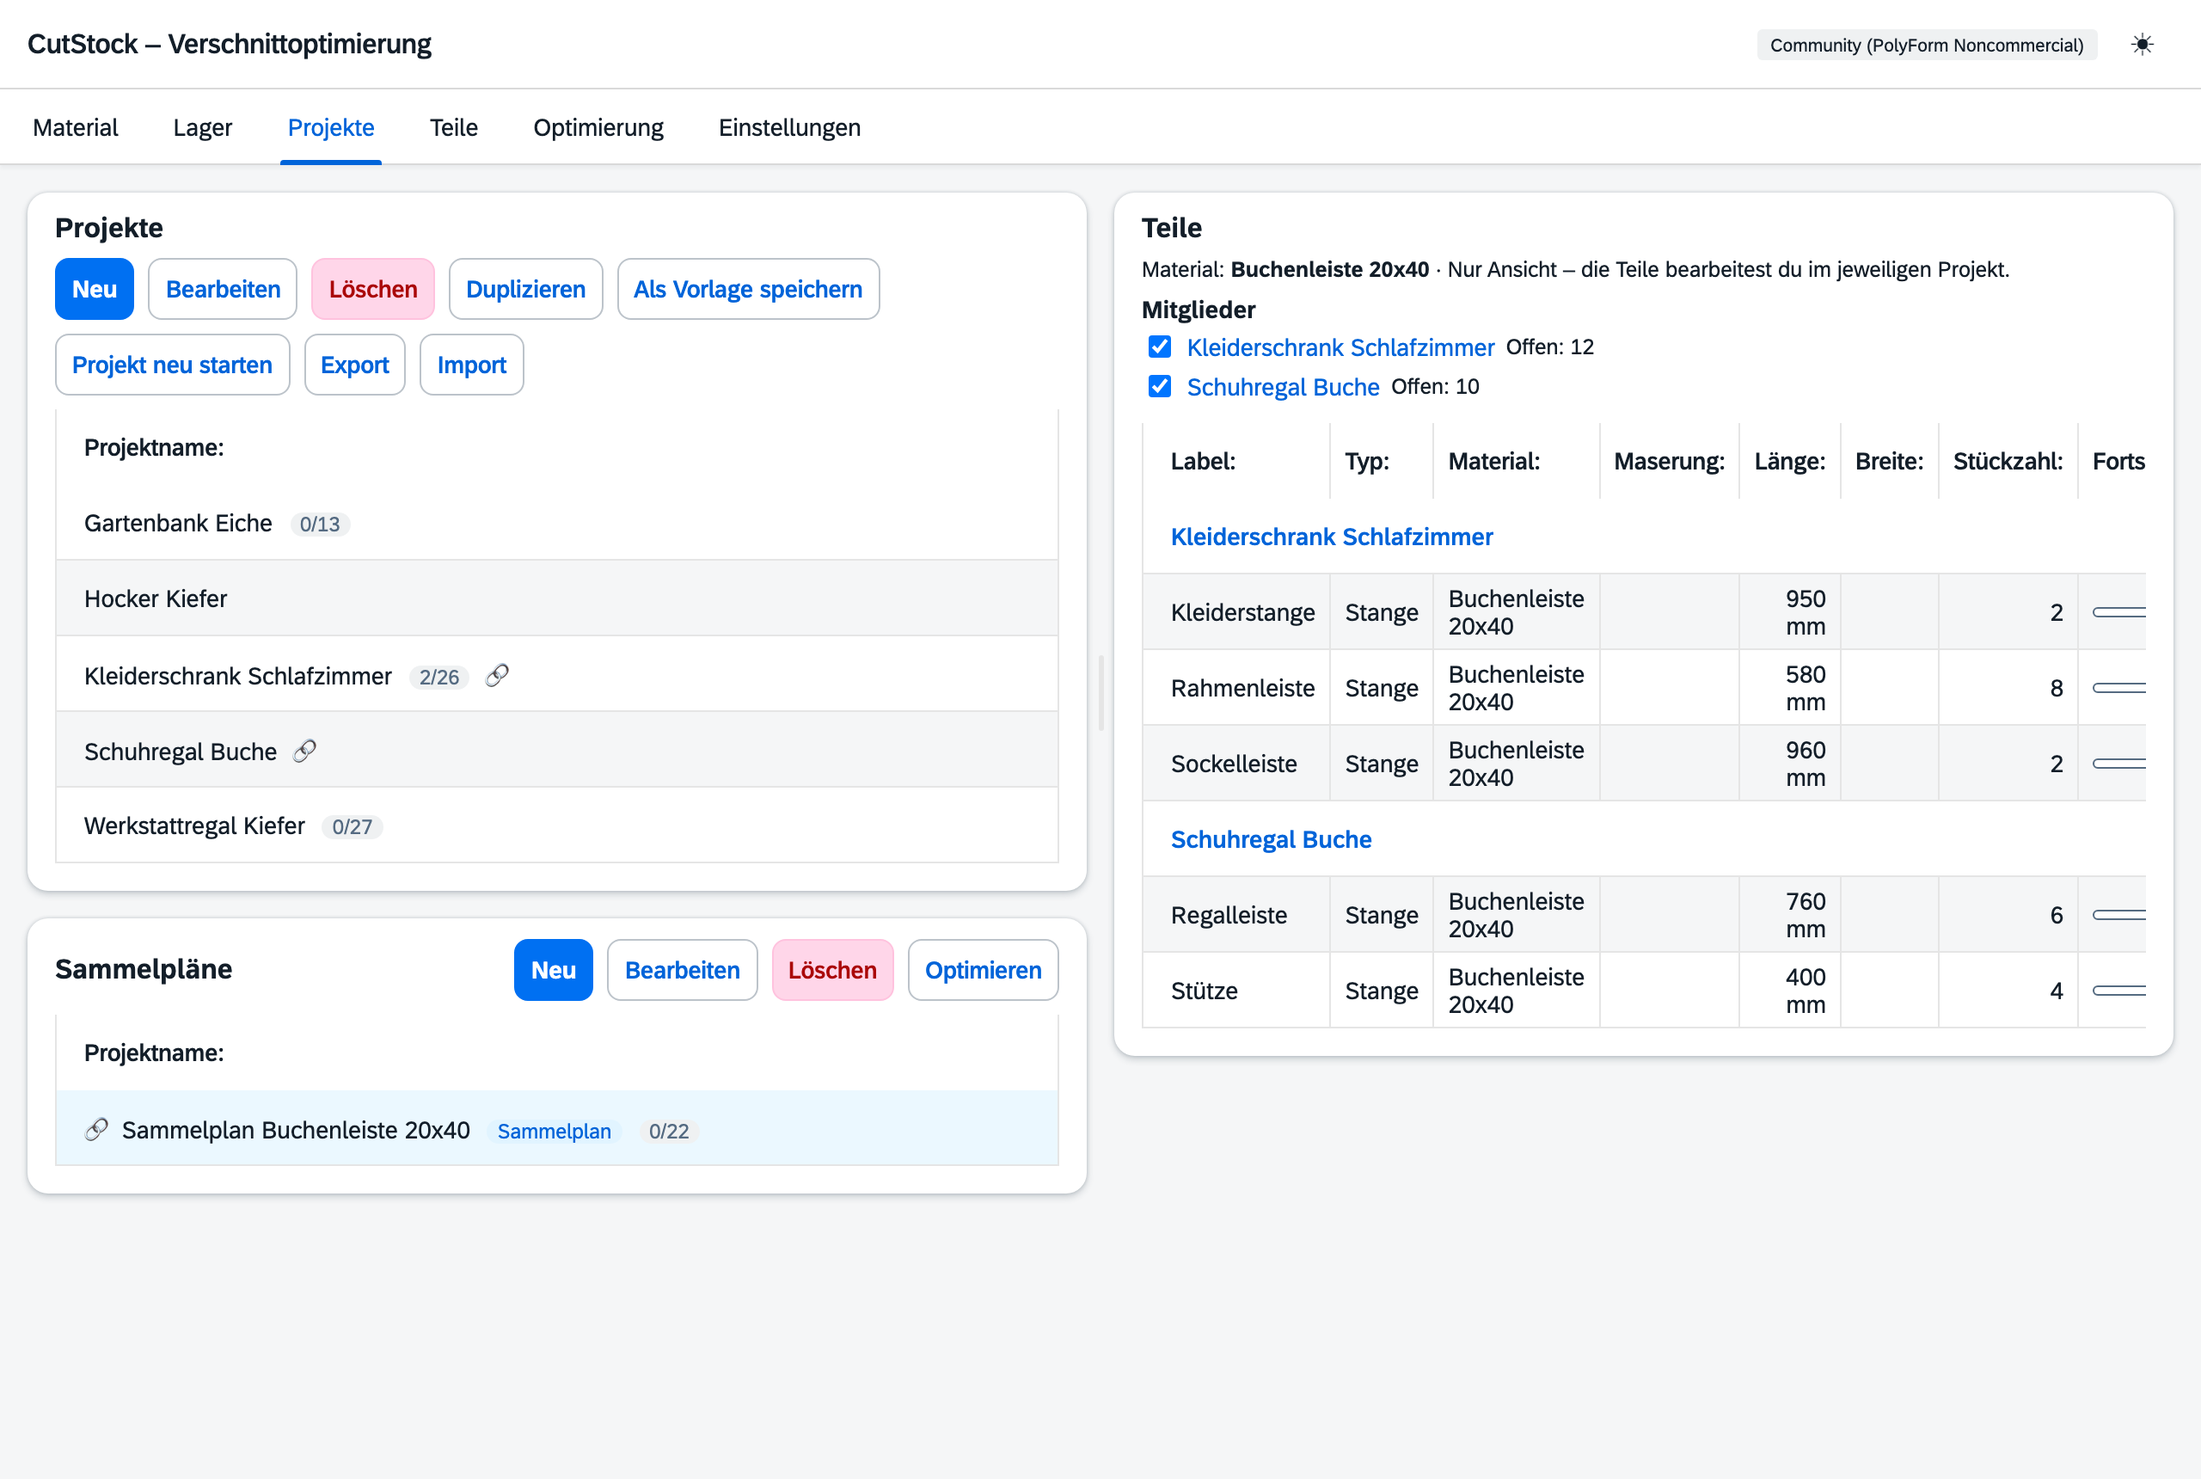
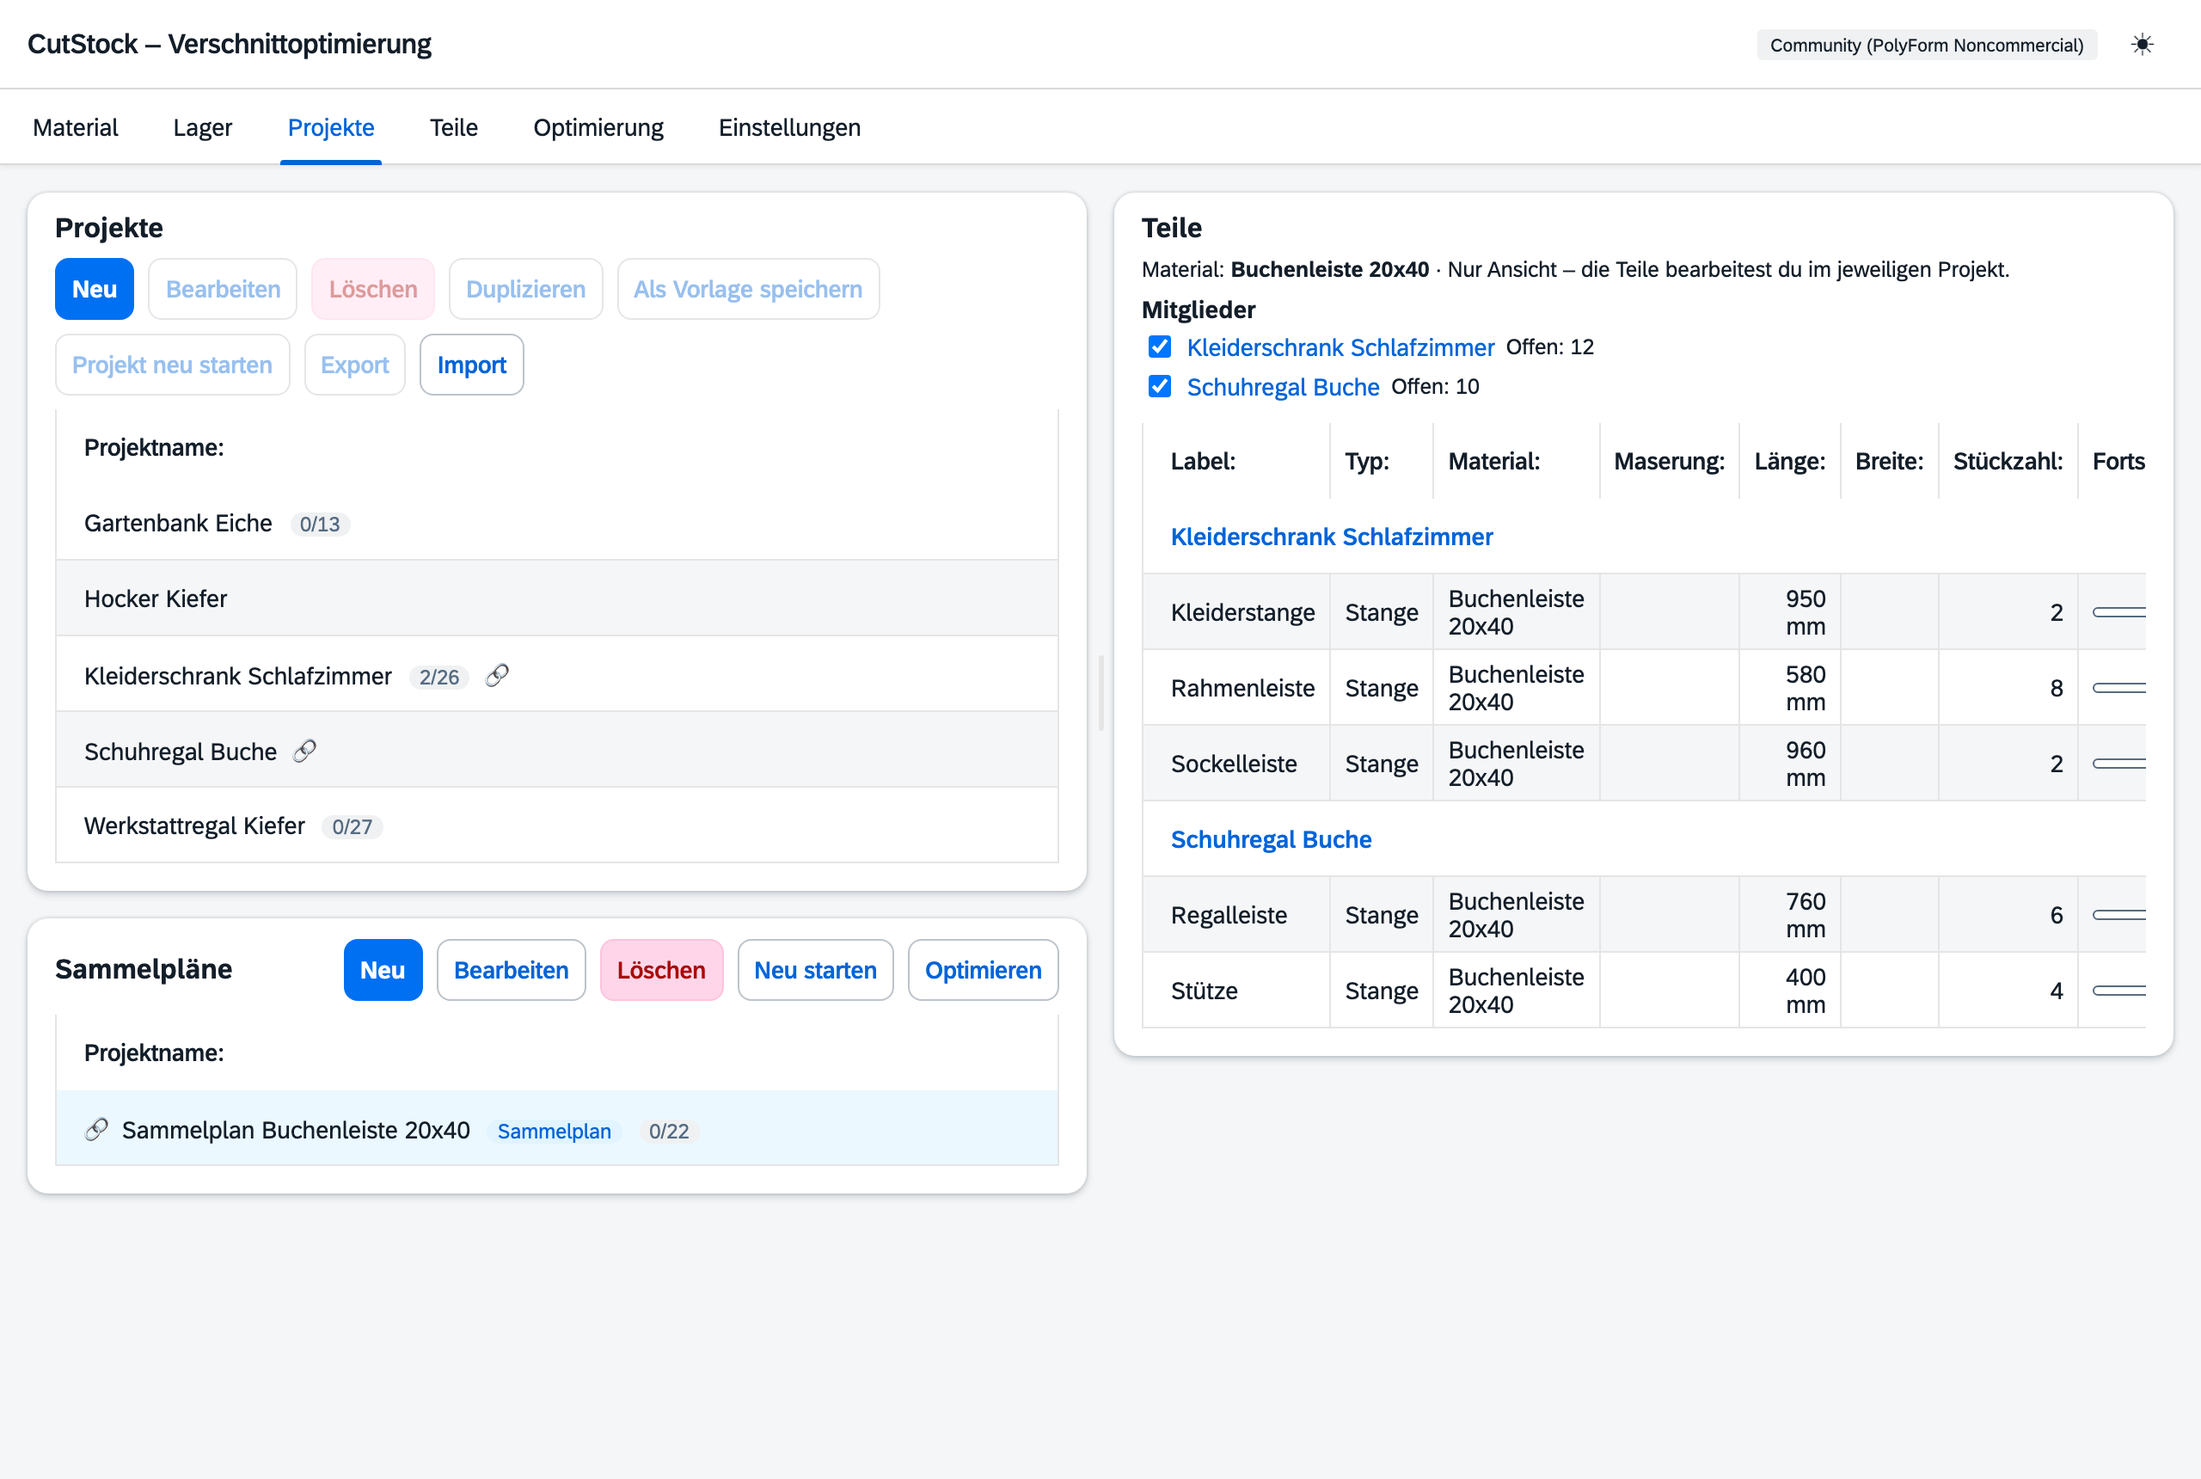
Sammelpläne: eigener Knopf „Neu starten“, Projekt-Knöpfe ausgegraut
- Kasten Sammelpläne bekommt „Neu starten“; oben heißt der Knopf immer „Projekt neu starten“
- Ist ein Sammelplan gewählt, sind Bearbeiten, Löschen, Duplizieren, Als Vorlage speichern,
  Projekt neu starten und Export ausgegraut (Tooltip verweist auf den Kasten Sammelpläne)
- Italienische Texte: einheitlich „piano combinato“
- Doku und Screenshots DE/EN

Changed region(s): [[0.0312, 0.1849, 0.4062, 0.2773], [0.1562, 0.6163, 0.4062, 0.6779]]

diff --git a/web/static/app.js b/web/static/app.js
@@ -1184,9 +1184,16 @@ async function renderParts() {
 
     const sammel = selectedSammel();
     document.getElementById('parts-toolbar')?.classList.toggle('hidden', !!sammel);
-    // Neu starten gilt bei einem Sammelplan für sein Material in allen Mitgliedern
-    const restartBtn = document.getElementById('btn-proj-restart');
-    if (restartBtn) restartBtn.textContent = t(sammel ? 'sammel.restart' : 'plan.restart');
+    // Ist ein Sammelplan gewählt, gelten die Projekt-Knöpfe nicht – ausgrauen statt
+    // ausblenden, damit die Leiste nicht springt. Neu und Import bleiben aktiv.
+    ['btn-proj-edit', 'btn-proj-del', 'btn-proj-clone', 'btn-proj-as-tpl', 'btn-proj-restart',
+     'btn-proj-export'].forEach(id => {
+        const b = document.getElementById(id);
+        if (!b) return;
+        b.disabled = !!sammel;
+        if (sammel) b.title = t('sammel.proj_buttons_hint');
+        else if (b.title === t('sammel.proj_buttons_hint')) b.title = id === 'btn-proj-restart' ? t('proj.restart_hint') : '';
+    });
     if (sammel) { await renderSammelParts(sammel); return; }
     document.getElementById('sammel-detail')?.classList.add('hidden');
 
@@ -5914,6 +5921,7 @@ function initEvents() {
     document.getElementById('btn-sammel-edit')?.addEventListener('click', mitSammel(openSammelRenameDialog));
     document.getElementById('btn-sammel-del')?.addEventListener('click', mitSammel(deleteSammel));
     document.getElementById('btn-sammel-opt')?.addEventListener('click', mitSammel(optimizeSelectedSammel));
+    document.getElementById('btn-sammel-restart')?.addEventListener('click', mitSammel(restartSammel));
 
     document.getElementById('btn-proj-clone')?.addEventListener('click', async () => {
         const proj = State.projects.find(p => p.id === State.selectedProjectId);
@@ -6074,8 +6082,6 @@ function initEvents() {
     });
 
     document.getElementById('btn-proj-restart')?.addEventListener('click', () => {
-        const sammel = selectedSammel();
-        if (sammel) { restartSammel(sammel); return; }
         const proj = State.projects.find(p => p.id === State.selectedProjectId);
         if (!proj) { showToast(t('dlg.select_project'), 'error'); return; }
         openConfirmDialog(t('plan.restart_confirm') + '\n\n' + t('tpl.restart_tip'), () => restartProject(proj.id));

diff --git a/web/static/index.html b/web/static/index.html
@@ -188,6 +188,7 @@
               <button id="btn-sammel-new" class="fd-button fd-button--emphasized" type="button" data-i18n="btn.new">Neu</button>
               <button id="btn-sammel-edit" class="fd-button" type="button" data-i18n="btn.edit">Bearbeiten</button>
               <button id="btn-sammel-del" class="fd-button fd-button--negative" type="button" data-i18n="btn.delete">Entfernen</button>
+              <button id="btn-sammel-restart" class="fd-button" type="button" data-i18n="sammel.restart_short" title="" data-i18n-title="sammel.restart_hint">Neu starten</button>
               <button id="btn-sammel-opt" class="fd-button" type="button" data-i18n="opt.run">Optimieren</button>
             </div>
           </div>

diff --git a/web/app.py b/web/app.py
@@ -4591,10 +4591,13 @@ WEB_EXTRA_TRANSLATIONS = {
     "plan.stock_missing_codes": {"de": "Nicht mehr im Lager: {codes} – ggf. neu optimieren", "en": "No longer in stock: {codes} – consider optimizing again", "fr": "Plus en stock : {codes} – réoptimiser si nécessaire", "it": "Non più in magazzino: {codes} – eventualmente ottimizzare di nuovo"},
     "err.lagerort_vorhanden": {"de": "Diesen Lagerort gibt es schon.", "en": "This location already exists.", "fr": "Cet emplacement existe déjà.", "it": "Questa ubicazione esiste già."},
     "err.letzter_lagerort": {"de": "Der letzte Lagerort kann nicht gelöscht werden.", "en": "The last location cannot be deleted.", "fr": "Le dernier emplacement ne peut pas être supprimé.", "it": "L’ultima ubicazione non può essere eliminata."},
-    "err.sammel_nichts_offen": {"de": "In den Projekten dieses Sammelplans ist in diesem Material nichts mehr offen. Zum erneuten Sägen im Reiter Projekte den Sammelplan auswählen und „Sammelplan neu starten“.", "en": "Nothing is open in this material in the projects of this combined plan. To cut it again, select the combined plan in the Projects tab and use “Restart combined plan”.", "fr": "Plus rien n’est ouvert dans ce matériau dans les projets de ce plan groupé. Pour le découper à nouveau, sélectionnez le plan groupé dans l’onglet Projets et utilisez « Recommencer le plan groupé ».", "it": "Nei progetti di questo piano cumulativo non c’è più nulla di aperto in questo materiale. Per tagliarlo di nuovo seleziona il piano cumulativo nella scheda Progetti e usa «Ricomincia piano cumulativo»."},
-    "sammel.restart": {"de": "Sammelplan neu starten", "en": "Restart combined plan", "fr": "Recommencer le plan groupé", "it": "Ricomincia piano cumulativo"},
-    "sammel.restart_confirm": {"de": "Sammelplan „{name}“ neu starten, um ihn noch einmal zu sägen?\n- In {projekte} geht der Fortschritt aller Teile aus {material} auf 0\n- Teile aus anderen Materialien bleiben, wie sie sind\n- Der gespeicherte Sammelplan wird gelöscht, das Lager bleibt unverändert\n\nDanach „Optimieren“ – gerechnet wird mit dem aktuellen Lager samt Resten.", "en": "Restart combined plan “{name}” to cut it again?\n- In {projekte}, progress of all parts made of {material} goes back to 0\n- Parts of other materials stay as they are\n- The saved combined plan is deleted, stock stays unchanged\n\nThen “Optimize” – it is calculated with the current stock including remnants.", "fr": "Recommencer le plan groupé « {name} » pour le découper à nouveau ?\n- Dans {projekte}, la progression de toutes les pièces en {material} revient à 0\n- Les pièces d’autres matériaux restent inchangées\n- Le plan groupé enregistré est supprimé, le stock reste inchangé\n\nEnsuite « Optimiser » – le calcul utilise le stock actuel, chutes comprises.", "it": "Ricominciare il piano cumulativo «{name}» per tagliarlo di nuovo?\n- In {projekte} l’avanzamento di tutti i pezzi in {material} torna a 0\n- I pezzi di altri materiali restano invariati\n- Il piano cumulativo salvato viene eliminato, il magazzino resta invariato\n\nPoi «Ottimizza» – si calcola con il magazzino attuale, sfridi compresi."},
-    "sammel.restarted": {"de": "Sammelplan neu gestartet – jetzt optimieren", "en": "Combined plan restarted – optimize it now", "fr": "Plan groupé recommencé – optimisez-le maintenant", "it": "Piano cumulativo ricominciato – ora ottimizzalo"},
+    "err.sammel_nichts_offen": {"de": "In den Projekten dieses Sammelplans ist in diesem Material nichts mehr offen. Zum erneuten Sägen im Reiter Projekte im Kasten „Sammelpläne“ den Sammelplan auswählen und „Neu starten“.", "en": "Nothing is open in this material in the projects of this combined plan. To cut it again, select the combined plan in the “Combined plans” box of the Projects tab and use “Restart”.", "fr": "Plus rien n’est ouvert dans ce matériau dans les projets de ce plan groupé. Pour le découper à nouveau, sélectionnez le plan groupé dans la zone « Plans groupés » de l’onglet Projets et utilisez « Recommencer ».", "it": "Nei progetti di questo piano combinato non c’è più nulla di aperto in questo materiale. Per tagliarlo di nuovo seleziona il piano combinato nel riquadro «Piani combinati» della scheda Progetti e usa «Ricomincia»."},
+    "sammel.restart_short": {"de": "Neu starten", "en": "Restart", "fr": "Recommencer", "it": "Ricomincia"},
+    "sammel.restart_hint": {"de": "Teile dieses Materials in allen Mitgliedern wieder offen, um den Sammelplan noch einmal zu sägen", "en": "Open the parts of this material in all members again to cut the combined plan once more", "fr": "Rouvrir les pièces de ce matériau dans tous les membres pour découper à nouveau le plan groupé", "it": "Riapri i pezzi di questo materiale in tutti i membri per tagliare di nuovo il piano combinato"},
+    "sammel.proj_buttons_hint": {"de": "Gilt für Projekte – den Sammelplan unten im Kasten „Sammelpläne“ bearbeiten", "en": "Applies to projects – edit the combined plan in the “Combined plans” box below", "fr": "S’applique aux projets – modifiez le plan groupé dans la zone « Plans groupés » ci-dessous", "it": "Vale per i progetti – modifica il piano combinato nel riquadro «Piani combinati» qui sotto"},
+    "sammel.restart": {"de": "Sammelplan neu starten", "en": "Restart combined plan", "fr": "Recommencer le plan groupé", "it": "Ricomincia piano combinato"},
+    "sammel.restart_confirm": {"de": "Sammelplan „{name}“ neu starten, um ihn noch einmal zu sägen?\n- In {projekte} geht der Fortschritt aller Teile aus {material} auf 0\n- Teile aus anderen Materialien bleiben, wie sie sind\n- Der gespeicherte Sammelplan wird gelöscht, das Lager bleibt unverändert\n\nDanach „Optimieren“ – gerechnet wird mit dem aktuellen Lager samt Resten.", "en": "Restart combined plan “{name}” to cut it again?\n- In {projekte}, progress of all parts made of {material} goes back to 0\n- Parts of other materials stay as they are\n- The saved combined plan is deleted, stock stays unchanged\n\nThen “Optimize” – it is calculated with the current stock including remnants.", "fr": "Recommencer le plan groupé « {name} » pour le découper à nouveau ?\n- Dans {projekte}, la progression de toutes les pièces en {material} revient à 0\n- Les pièces d’autres matériaux restent inchangées\n- Le plan groupé enregistré est supprimé, le stock reste inchangé\n\nEnsuite « Optimiser » – le calcul utilise le stock actuel, chutes comprises.", "it": "Ricominciare il piano combinato «{name}» per tagliarlo di nuovo?\n- In {projekte} l’avanzamento di tutti i pezzi in {material} torna a 0\n- I pezzi di altri materiali restano invariati\n- Il piano combinato salvato viene eliminato, il magazzino resta invariato\n\nPoi «Ottimizza» – si calcola con il magazzino attuale, sfridi compresi."},
+    "sammel.restarted": {"de": "Sammelplan neu gestartet – jetzt optimieren", "en": "Combined plan restarted – optimize it now", "fr": "Plan groupé recommencé – optimisez-le maintenant", "it": "Piano combinato ricominciato – ora ottimizzalo"},
     "err.vorlage_unbekannt": {"de": "Vorlage nicht gefunden.", "en": "Template not found.", "fr": "Modèle introuvable.", "it": "Modello non trovato."},
     "err.vorlage_leer": {"de": "Die Vorlage enthält noch keine Teile.", "en": "The template has no parts yet.", "fr": "Le modèle ne contient encore aucune pièce.", "it": "Il modello non contiene ancora pezzi."},
     "err.vorlage_nicht_saegbar": {"de": "Eine Vorlage wird nicht selbst gesägt – starte einen Durchgang mit „Sägen ×N“.", "en": "A template is not cut itself – start a run with “Cut ×N”.", "fr": "Un modèle n’est pas découpé lui-même – lancez un passage avec « Découper ×N ».", "it": "Un modello non si taglia direttamente – avvia un passaggio con «Taglia ×N»."},

diff --git a/docs/handbuch/3-projekte.md b/docs/handbuch/3-projekte.md
@@ -50,12 +50,13 @@ Kasten „Sammelpläne“ tragen ein 🔗 und das Etikett „Sammelplan“.
   Links ins jeweilige Projekt; bearbeitet wird dort.
 - **Optimieren** springt in die [Optimierung](5-optimierung.md#sammelplan) und wählt dort diesen
   Sammelplan aus.
-- **Sammelplan neu starten** (der Knopf „Projekt neu starten“ heißt bei ausgewähltem Sammelplan
-  so): um ihn noch einmal zu sägen. In allen Mitgliedern geht der Fortschritt der Teile **dieses
+- **Neu starten**: um den Sammelplan noch einmal zu sägen. In allen Mitgliedern geht der Fortschritt der Teile **dieses
   Materials** auf 0, Teile aus anderen Materialien bleiben, wie sie sind. Der gespeicherte
   Sammelplan wird gelöscht, das Lager bleibt unverändert – danach **Optimieren**, gerechnet wird
   mit dem aktuellen Lager samt Resten. Ist in den Projekten nichts mehr offen, bleibt ein fertig
   gesägter Plan beim Neu-Berechnen stehen, und CutStock weist auf diesen Knopf hin.
+- Solange ein Sammelplan ausgewählt ist, sind oben im Kasten „Projekte“ nur **Neu** und
+  **Import** aktiv; die übrigen Knöpfe gelten für Projekte und sind ausgegraut.
 - **Löschen** wie ein Projekt, mit Warnung, wenn schon gesägt wurde. Nichts geht verloren:
   Gesägte Teile bleiben in ihren Projekten als gesägt, der Rest wird wieder offen, reservierte
   Lagerstücke werden frei. Danach lassen sich die Projekte einzeln optimieren oder neu

diff --git a/docs/manual/3-projects.md b/docs/manual/3-projects.md
@@ -50,12 +50,13 @@ saves whole bars or panels. There is at most one combined plan per material. The
   the project; parts are edited there.
 - **Optimize** jumps to [Optimization](5-optimization.md#combined-plan) and selects this combined
   plan there.
-- **Restart combined plan** (the "Restart project" button is called this while a combined plan is
-  selected): to cut it once more. In all members, progress of the parts made of **this material**
+- **Restart**: to cut the combined plan once more. In all members, progress of the parts made of **this material**
   goes back to 0; parts of other materials stay as they are. The saved combined plan is deleted,
   stock stays unchanged – then **Optimize**, calculated with the current stock including remnants.
   If nothing is open in the projects any more, a fully cut plan stays when you recalculate, and
   CutStock points you to this button.
+- While a combined plan is selected, only **New** and **Import** are active in the "Projects" box
+  above; the other buttons apply to projects and are greyed out.
 - **Delete** like a project, with a warning if cutting has already started. Nothing is lost:
   parts already cut stay cut in their projects, the rest becomes open again and reserved stock
   pieces are released. Afterwards the projects can be optimized individually or combined anew.
